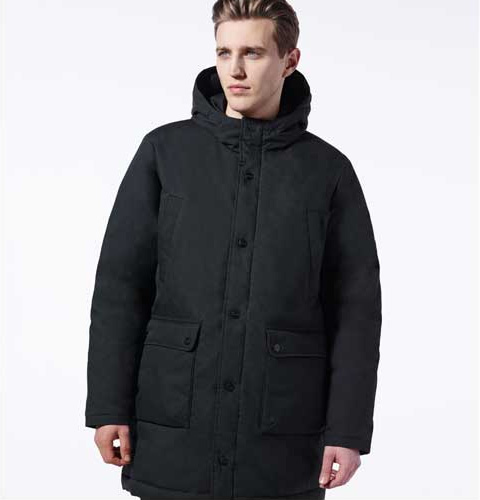
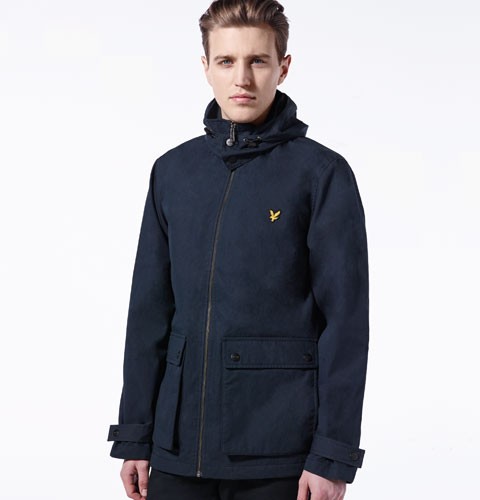
Lyle and Scott changes before go-live

diff --git a/lyle-and-scott/home-page/home-page.js b/lyle-and-scott/home-page/home-page.js
@@ -14,7 +14,7 @@ var home_page_exp = (function($) {
 var exp = {};
 
 // Log the experiment, useful when multiple experiments are running
-console.log('Lyle and Scott home page experiment - 1.4.0');
+console.log('Lyle and Scott home page experiment - 1.5.0');
 
 // Condition
 // If we cannot rely on URL's to target the experiment, we can use a unique CSS selector
@@ -32,14 +32,13 @@ exp.vars = {
     'has_run': false,
 
     'masonry_section': $('#home_content'),
-    'video_block': $('#home_content > div:nth-of-type(1)'),
-    'history_block': $('#home_content > div:nth-of-type(2)'),
-    'email_capture_block': $('#home_content > div:nth-of-type(3)'),
-    'scottish_creatives_block': $('#home_content > div:nth-of-type(4)'),
+    'history_block': $('#home_content > div:nth-of-type(1)'),
+    'email_capture_block': $('#home_content > div:nth-of-type(2)'),
+    'scottish_creatives_block': $('#home_content > div:nth-of-type(3)'),
 
     'jackets_and_coats_block': $('<div class="content_block CGIT_HP_CATBLOCK"> \
     <a href="http://www.lyleandscott.com/jackets-coats/men/fcp-category/list?resetFilters=true"> \
-        <img style="padding-bottom:20px" src="//cdn.optimizely.com/img/174847139/3d0839791ab84e589ee362764f93b083.jpg" alt="Jackets &amp; Coats"> \
+        <img style="padding-bottom:20px" src="//cdn.optimizely.com/img/174847139/53df10f20bb445278a80ede3031ce1ac.jpg" alt="Jackets &amp; Coats"> \
         <h2 class="block_title">Jackets &amp; Coats</h2> \
     </a> \
 </div>'),
@@ -81,16 +80,22 @@ exp.css = ' \
     margin-right: 0; \
 } \
 .email_capture_block form#quickProspectRegistrationForm button { \
-    padding: 1em; \
+    padding: 1em 0.75em; \
     font-family: \'gill_sans_mt_condensedregular\'; \
     text-transform: uppercase; \
     font-size: 1.5em; \
     line-height: 15px; \
     float: right; \
+    letter-spacing: 0.1em; \
 } \
 #home_content h2 { \
     font-family: \'gill_sans_mt_condensedregular\'; \
     text-transform: uppercase; \
+    letter-spacing: 0.2em; \
+} \
+.CGIT_HP_CATBLOCK img { \
+    width: 480px; \
+    height: 520px; \
 }';
 
 // Functions
@@ -103,9 +108,6 @@ exp.init = function() {
 
     // append styles to head
     $('head').append('<style type="text/css">'+this.css+'</style>');
-
-    // Remove video block
-    this.vars.video_block.remove();
 
     // Remove history block
     this.vars.history_block.remove();
@@ -143,6 +145,5 @@ return exp;
 
 // Run the experiment
 $(document).ready(function() {
-    console.log("MAKING DO");
     home_page_exp.init();
 });
